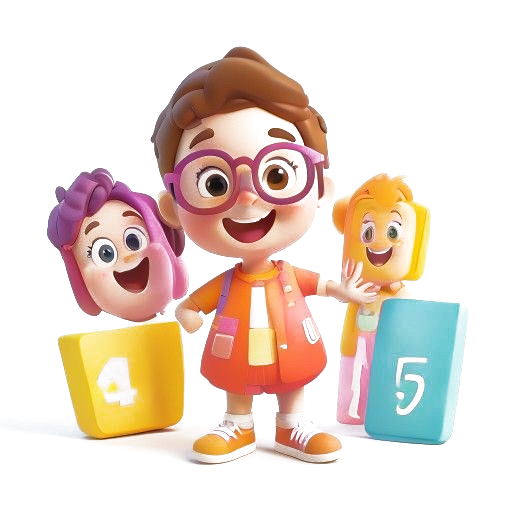
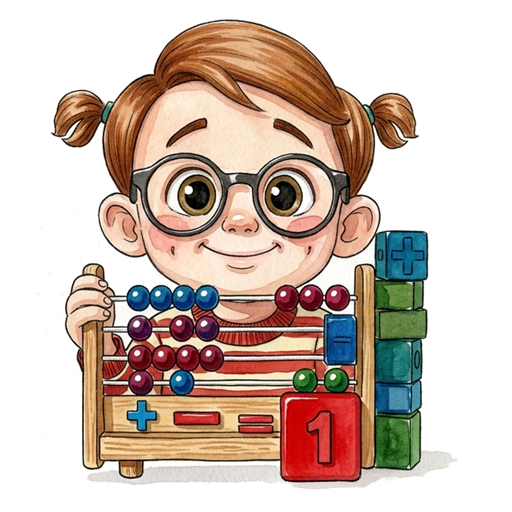
feat(subjects): ilustrace předmětů z Supabase storage do projektu
Kresby předmětů se tahaly za běhu ze storage. Uživatel admin regeneraci nikdy
nepoužil, takže jediné, co tím projekt získával, byla závislost na nasazení —
nahrát tam soubor uměl jen on. Nově jsou to lokální assety v src/assets/subjects
s importy v subjectRegistry.ts.

Při té příležitosti odlehčeny a zbaveny pozadí: 18,3 MB → 2,0 MB.
subject-matematika.png mělo 4,2 MB na kartu velkou 112 px.

SubjectMeta.image je nově volitelné. Předmět bez kresby (angličtina, informatika,
fyzika, přírodopis, zeměpis, občanka) ho prostě nemá a IllustrationImg zobrazí
emoji; dřív se pro něj skládala URL, která vracela 404.

Matematika a přírodověda navíc překresleny do akvarelu. Zbylých pět zůstává ve
starém 3D stylu, jen odlehčených.

Dvě stažené kresby měly rozbité pozadí a našel to až audit bílých kapes: chemie
měla kolem sebe modrošedý čtverec #E0E5E9, na který práh na bílou nesáhl,
vlastivěda bílou skvrnu kolem hradu. Přeříznuto nižším prahem.

Pozn.: admin obrazovka „Generovat ilustrace" pořád zapisuje předmětové kresby
do storage, ale aplikace je odtud už nečte. Kategoriové a tématové ilustrace
tam zůstávají, takže obrazovku nelze jen tak vypnout — vyžaduje rozhodnutí.

diff --git a/src/lib/subjectRegistry.ts b/src/lib/subjectRegistry.ts
@@ -13,6 +13,14 @@
  * NIKDY podle pozadí celé karty. Karta je vždy bílá, barvu nesou ilustrace.
  */
 
+import imgMatematika from "@/assets/subjects/subject-matematika.png";
+import imgCestina from "@/assets/subjects/subject-cestina.png";
+import imgPrvouka from "@/assets/subjects/subject-prvouka.png";
+import imgPrirodoveda from "@/assets/subjects/subject-prirodoveda.png";
+import imgVlastiveda from "@/assets/subjects/subject-vlastiveda.png";
+import imgDejepis from "@/assets/subjects/subject-dejepis.png";
+import imgChemie from "@/assets/subjects/subject-chemie.png";
+
 export interface SubjectPalette {
   /** Ink — text, ikona, číslo. Kontrast ≥4,5:1 na bílé i na vlastním tintu. */
   color: string;
@@ -31,7 +39,7 @@ export interface SubjectPalette {
 export interface SubjectMeta extends SubjectPalette {
   label: string;
   emoji: string;
-  image: string;
+  image?: string;
   hook?: string;
 }
 
@@ -167,63 +175,68 @@ export const NEUTRAL_PALETTE: SubjectPalette = {
   edgeClass: "border-l-border",
 };
 
-// Supabase storage URL pro dynamické ilustrace předmětů (subject-{slug}.png)
-const SUPABASE_STORAGE = "https://uusaczibimqvaazpaopy.supabase.co/storage/v1/object/public/prvouka-images";
-
 // Klíč v SUBJECTS MUSÍ přesně odpovídat poli `subject` v TopicMetadata
-// (malé písmeno, s diakritikou). VŠECHNY předměty čtou ilustraci ze Supabase
-// storage (subject-{slug}.png) — STEJNÝ zdroj, kam je generuje admin panel
-// (AdminGenerateIllustrations), takže žákovský pohled vždy ukáže aktuální
-// admin ilustraci a regenerace se propíšou samy. Dokud soubor neexistuje,
-// IllustrationImg zobrazí emoji fallback.
+// (malé písmeno, s diakritikou).
+//
+// Ilustrace jsou od 2026-09-02 **lokální assety**, ne Supabase storage.
+// Důvod: uživatel admin regeneraci ilustrací nikdy nepoužil, takže jediné,
+// co storage přinášel, byla závislost na nasazení — kresby tam uměl nahrát
+// jen on. Lokálně je lze měnit stejně jako zbytek kódu a odpadá i stahování
+// z cizí domény při každém načtení.
+//
+// Vedlejší zisk: soubory ze storage vážily **18,3 MB** (subject-matematika
+// 4,2 MB na kartu velkou 112 px). Po vyříznutí pozadí a zmenšení na 512 px
+// je to **2,0 MB**.
+//
+// `image` je volitelné — předmět bez kresby (angličtina, informatika, fyzika,
+// přírodopis, zeměpis, výchova k občanství) ho prostě nemá a `IllustrationImg`
+// zobrazí emoji. Dřív se pro ně skládala URL, která vracela 404.
 export const SUBJECTS: Record<string, SubjectMeta> = {
   matematika: {
     ...PALETTE.modra,
     label: "Matematika",
     emoji: "🔢",
-    image: `${SUPABASE_STORAGE}/subject-matematika.png`,
+    image: imgMatematika,
     hook: "Matematika tě naučí počítat, porovnávat a řešit úlohy — v obchodě, ve hře i v životě!",
   },
   čeština: {
     ...PALETTE.ruzova,
     label: "Čeština",
     emoji: "📝",
-    image: `${SUPABASE_STORAGE}/subject-cestina.png`,
+    image: imgCestina,
     hook: "Čeština je klíč ke správnému psaní, čtení a porozumění — ve škole i na internetu!",
   },
   prvouka: {
     ...PALETTE.teal,
     label: "Prvouka",
     emoji: "🌍",
-    image: `${SUPABASE_STORAGE}/subject-prvouka.png`,
+    image: imgPrvouka,
     hook: "Prvouka ti ukáže, jak funguje příroda, lidské tělo i svět kolem tebe!",
   },
   přírodověda: {
     ...PALETTE.olivova,
     label: "Přírodověda",
     emoji: "🌿",
-    image: `${SUPABASE_STORAGE}/subject-prirodoveda.png`,
+    image: imgPrirodoveda,
     hook: "Přírodověda ti ukáže, jak fungují ekosystémy, koloběh vody i svět hornin!",
   },
   vlastivěda: {
     ...PALETTE.hneda,
     label: "Vlastivěda",
     emoji: "🗺",
-    image: `${SUPABASE_STORAGE}/subject-vlastiveda.png`,
+    image: imgVlastiveda,
     hook: "Vlastivěda tě provede kraji Česka, jeho historií a státními symboly!",
   },
   angličtina: {
     ...PALETTE.fialova,
     label: "Angličtina",
     emoji: "🇬🇧",
-    image: `${SUPABASE_STORAGE}/subject-anglictina.png`,
     hook: "Angličtina ti otevře filmy, hry i kamarády po celém světě!",
   },
   informatika: {
     ...PALETTE.grafit,
     label: "Informatika",
     emoji: "💻",
-    image: `${SUPABASE_STORAGE}/subject-informatika.png`,
     hook: "Informatika tě naučí, jak myslí počítač — a jak ho přimět dělat, co chceš.",
   },
 
@@ -232,42 +245,38 @@ export const SUBJECTS: Record<string, SubjectMeta> = {
     ...PALETTE.zlatohneda,
     label: "Dějepis",
     emoji: "🏛",
-    image: `${SUPABASE_STORAGE}/subject-dejepis.png`,
+    image: imgDejepis,
     hook: "Dějepis tě provede minulostí — od pravěku po moderní dějiny.",
   },
   fyzika: {
     ...PALETTE.tmavemodra,
     label: "Fyzika",
     emoji: "⚛",
-    image: `${SUPABASE_STORAGE}/subject-fyzika.png`,
     hook: "Fyzika vysvětluje, jak funguje svět — od pohybu po elektřinu.",
   },
   chemie: {
     ...PALETTE.azurova,
     label: "Chemie",
     emoji: "🧪",
-    image: `${SUPABASE_STORAGE}/subject-chemie.png`,
+    image: imgChemie,
     hook: "Chemie odhaluje, z čeho jsou věci kolem nás a jak spolu reagují.",
   },
   přírodopis: {
     ...PALETTE.zelena,
     label: "Přírodopis",
     emoji: "🌱",
-    image: `${SUPABASE_STORAGE}/subject-prirodopis.png`,
     hook: "Přírodopis tě zavede do světa rostlin, zvířat i lidského těla.",
   },
   zeměpis: {
     ...PALETTE.petrolejova,
     label: "Zeměpis",
     emoji: "🌍",
-    image: `${SUPABASE_STORAGE}/subject-zemepis.png`,
     hook: "Zeměpis ti ukáže Zemi — krajiny, státy i přírodní jevy.",
   },
   "výchova k občanství": {
     ...PALETTE.vinova,
     label: "Občanská výchova",
     emoji: "⚖",
-    image: `${SUPABASE_STORAGE}/subject-vychova-k-obcanstvi.png`,
     hook: "Občanská výchova tě připraví na život ve společnosti.",
   },
 };
@@ -363,14 +372,10 @@ function buildFallback(subject: string): SubjectMeta {
   const hash = hashString(subject);
   const emoji = FALLBACK_EMOJIS[hash % FALLBACK_EMOJIS.length];
   const palette = FALLBACK_PALETTES[hash % FALLBACK_PALETTES.length];
-  const slug = subject.toLowerCase()
-    .normalize("NFD").replace(/[\u0300-\u036f]/g, "") // diakritika
-    .replace(/\s+/g, "-").replace(/[^a-z0-9-]/g, "");
   return {
     ...palette,
     label: subject.charAt(0).toUpperCase() + subject.slice(1),
     emoji,
-    image: `${SUPABASE_STORAGE}/subject-${slug}.png`,
   };
 }
 
